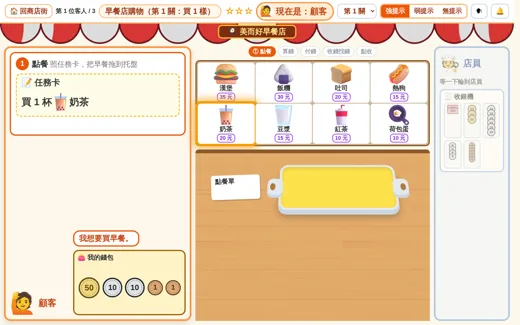
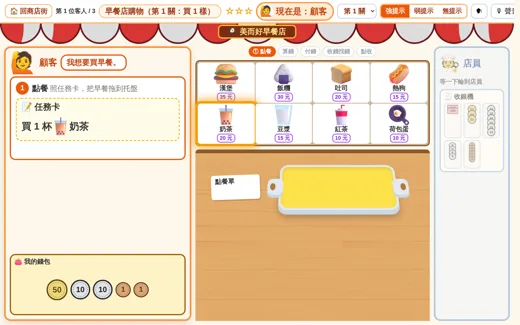
購物遊戲顧客區改版：頭像＋對話框移到最上面、錢包滿寬置中在底部（跟店員區同一種排法）
Claude-Session: https://claude.ai/code/session_011NSASXrBLbZtjmxv5auzoD（文件＋重產遊戲縮圖）

Changed region(s): [[0.0, 0.1538, 0.3692, 0.4923], [0.0, 0.7077, 0.3692, 0.9846], [0.9538, 0.0, 1.0, 0.0615]]

diff --git a/docs/早餐店購物遊戲_規劃.md b/docs/早餐店購物遊戲_規劃.md
@@ -26,7 +26,7 @@
 | 流程改版（2026-11-09） | **拿掉「店員結帳＋兩人核對」**：顧客自己算一共多少、系統判斷引導 → 算對後交易區浮現 → 顧客付錢 → 換店員：店員的手收走錢、念「收您＃元」，剛好就收據，要找才算找錢、拿錢 → 換顧客點收。換人只剩 2 次。**第 1 關錢包的零錢一定湊得出剛好的金額**，一半機會多一張大錢（付大錢就要找錢）。收銀機大小固定，錢被拿走不縮 |
 | 找錢用直式（2026-11-09） | 店員找錢時開「算一算」視窗，**跑的就是互動學習單「兩位數加減直式計算」同一份程式**（操作、提示與互動頁完全相同，強／弱／無跟著遊戲），算完答案自動填回。互動頁直式只支援兩位數減兩位數，所以**第 1 關菜單不放茶葉蛋（8 元）、錢包總額 ≤ 99 元**（使用者選「遊戲配合」；要做 100 元找錢時再擴充互動頁直式）。第 1 關算錢只買 1 樣，不開直式；第 2、3 關的加法、乘法之後用同樣方式接 |
 | 使用者回饋第三輪（2026-11-09） | 錢包大小固定（錢多錢少都一樣）；拿掉顧客付錢的手部動畫；找錢動畫改成「手抓著錢從上方放到盤子上 → 往前推 → 手往上、往後離開」；托盤樣式出模擬圖 `mock-breakfast-shop/G_托盤樣式.png`（甲木頭／乙速食店塑膠＋紙墊／丙有耳朵圓角／丁斜看立體）→ **使用者選丙＋丁**（有耳朵的圓角托盤、斜看立體）；店員的手加前臂與袖子 |
-| 使用者回饋第四輪（2026-11-09） | 顧客移到左下角（對話框在上、頭像左下、錢包右下）；顧客九宮格靠右；托盤左右縮短、前後加深，付錢／找錢框加高；「付好了」改「確認」；**兩側各有暫放區**（顧客「要付的錢」、店員「要找的錢」），錢先放暫放區，按「確認」才放到中央（付錢＝錢飛過去；找錢＝手抓著錢放下再推） |
+| 使用者回饋第四輪（2026-11-09） | 顧客移到左下角（對話框在上、頭像左下、錢包右下；**2026-11-11 改成跟店員區一樣：頭像＋對話框在最上面、錢包滿寬置中在底部**）；顧客九宮格靠右；托盤左右縮短、前後加深，付錢／找錢框加高；「付好了」改「確認」；**兩側各有暫放區**（顧客「要付的錢」、店員「要找的錢」），錢先放暫放區，按「確認」才放到中央（付錢＝錢飛過去；找錢＝手抓著錢放下再推） |
 | 使用者回饋第五輪（2026-11-09） | 付錢、找錢不再分兩個框，錢直接放在櫃台桌面上；顧客的「要付的錢」移到錢包正上方；托盤上的早餐比菜單圖示大 |
 | 使用者回饋第六輪（2026-11-09） | 櫃台上加一個零錢盤（付的錢、找的錢都放在同一個盤子上）；點餐時托盤改成一閃一閃的光暈提示（拿掉紅色虛線框） |
 | 使用者回饋第七輪（2026-11-09） | 零錢盤往下移、和托盤留大間距；托盤提示改成底色一亮一暗（白↔亮黃），點餐 5 秒後托盤還是空的就加搖晃 |
